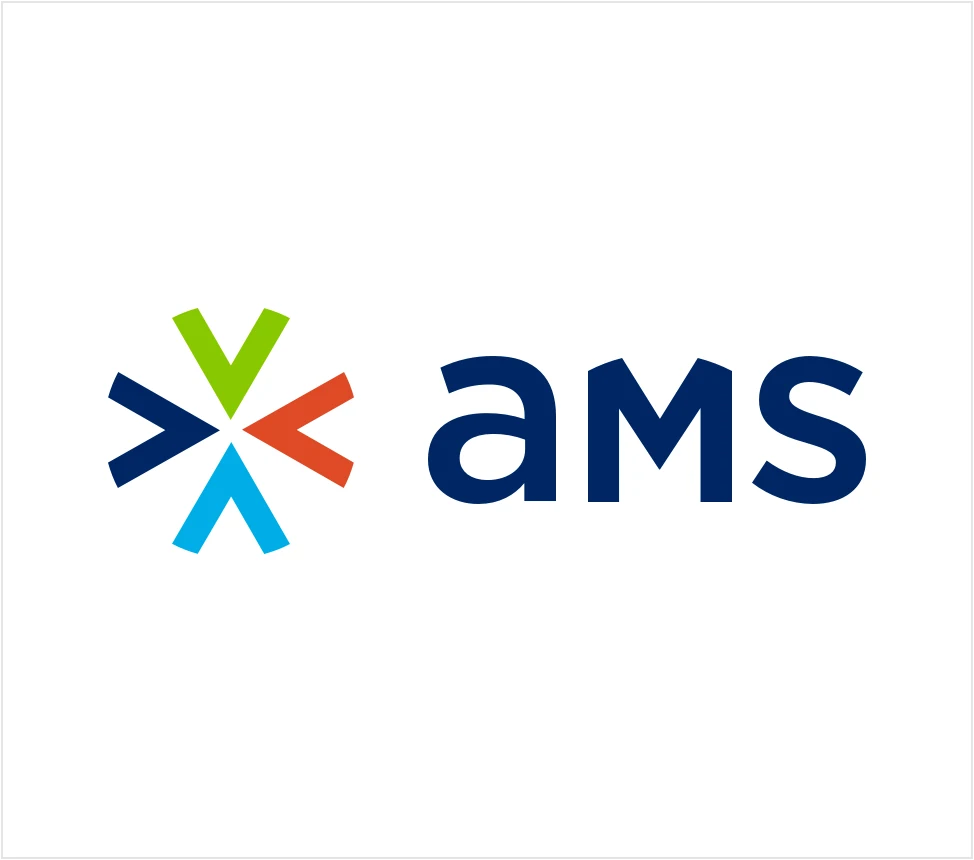
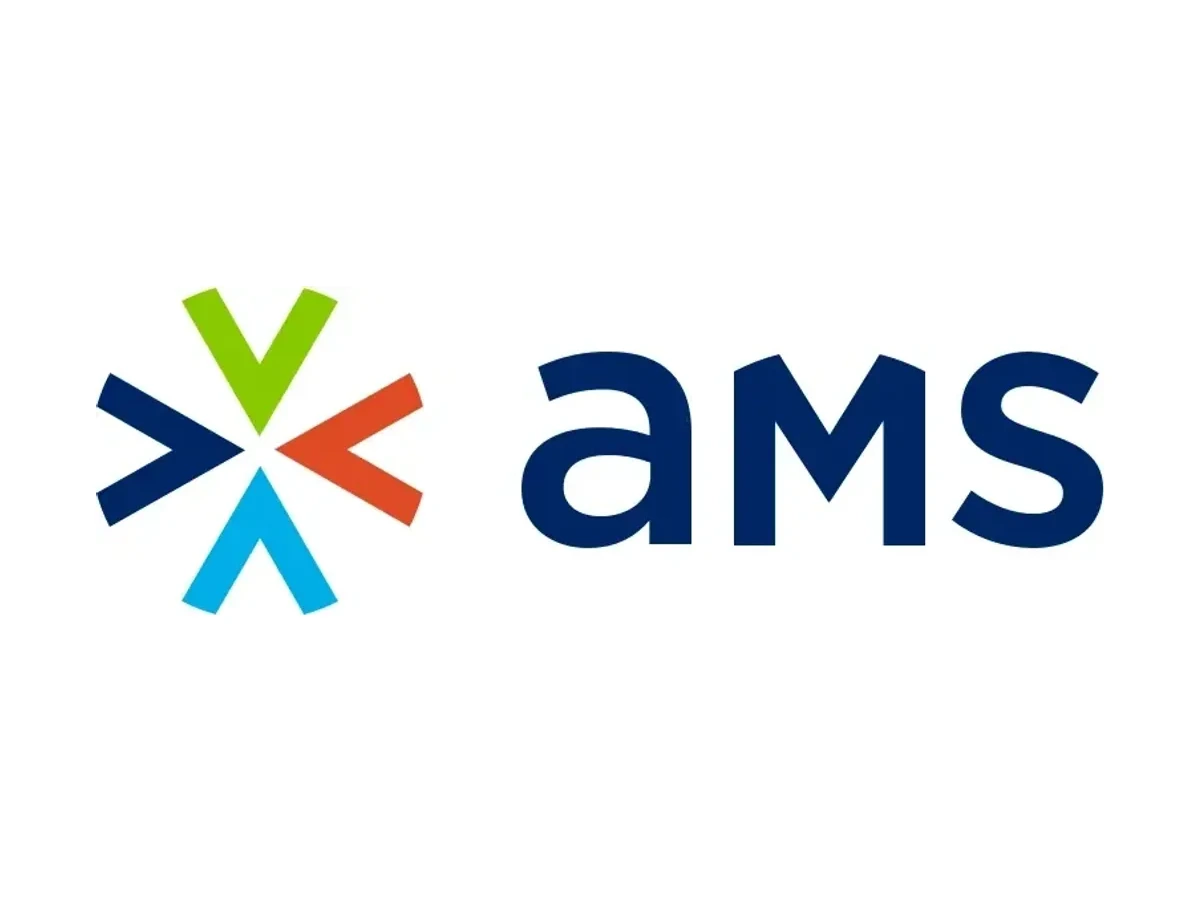
Identities: crop the baked-in borders, normalise mark sizing
The hairline was in the files, not the CSS. Eight of the twelve Squarespace
exports carried a 3px edge - a transparent row, a grey hairline at alpha 64,
then a 228-grey row - which composited over the white cell as a visible
rectangle. Cropped and flattened onto white.

Removing the 24px cell padding helped, but the real reason the marks looked
small was baked-in whitespace: ink occupied anywhere from 20% of the frame
(Nofsinger) to 75% (Namazu), so every logo rendered at a different optical
size. Each mark is now trimmed to its ink and re-centred on a 4:3 canvas
matching the cell, bounded to 84% width and 70% height - wide lockups hit the
width bound, square marks hit the height bound.

Hero and card composites rebuilt from the cleaned files; they had the borders
baked into them too. Declared dimensions resynced to disk.

diff --git a/lib/work.ts b/lib/work.ts
@@ -115,18 +115,18 @@ export const projects: Project[] = [
         gallery: true,
         body: "",
         images: [
-          { src: `${W}/identities/mockingbird.webp`, alt: "The Mockingbird Society — transforming foster care and ending youth homelessness", w: 2004, h: 860 },
-          { src: `${W}/identities/namazu.webp`, alt: "Namazu — fast, casual Japanese cuisine in San Francisco, named for the catfish of Japanese mythology", w: 2004, h: 860 },
-          { src: `${W}/identities/livinglocal.webp`, alt: "Seasons, Harry Race and White’s — sister stores for medical equipment, pharmacy and gifts in Alaska", w: 2004, h: 860 },
+          { src: `${W}/identities/mockingbird.webp`, alt: "The Mockingbird Society — transforming foster care and ending youth homelessness", w: 1200, h: 900 },
+          { src: `${W}/identities/namazu.webp`, alt: "Namazu — fast, casual Japanese cuisine in San Francisco, named for the catfish of Japanese mythology", w: 1200, h: 900 },
+          { src: `${W}/identities/livinglocal.webp`, alt: "Seasons, Harry Race and White’s — sister stores for medical equipment, pharmacy and gifts in Alaska", w: 1200, h: 900 },
           { src: `${W}/concord-international-school/nochetropical.webp`, alt: "Noche Tropical — fundraising dinner and auction identity for Concord International School", w: 2000, h: 1000 },
-          { src: `${W}/identities/perennial.webp`, alt: "Perennial — leadership training for social justice and nonprofit leaders. When you enrich the soil, things flourish", w: 974, h: 860 },
-          { src: `${W}/identities/jjkettman.webp`, alt: "J&J Kettman — hand-crafted furniture made with the tools and techniques of the 17th and 18th centuries", w: 974, h: 860 },
-          { src: `${W}/identities/queen-margherita-pizzeria.webp`, alt: "Queen Margherita Pizzeria — Neapolitan pizza", w: 1039, h: 1039 },
-          { src: `${W}/identities/alaskan-creamery-1.webp`, alt: "Alaskan Creamery — ice cream shop in Alaska", w: 1109, h: 1109 },
-          { src: `${W}/identities/philips.webp`, alt: "Philips — 21 years of multi-vendor service excellence", w: 974, h: 860 },
-          { src: `${W}/identities/redwood.webp`, alt: "Redwood — California real estate", w: 974, h: 860 },
-          { src: `${W}/identities/ams.webp`, alt: "AMS — medical accounts receivable", w: 974, h: 860 },
-          { src: `${W}/identities/nofsinger-group-1.webp`, alt: "Nofsinger Group — consultants", w: 1010, h: 1010 },
+          { src: `${W}/identities/perennial.webp`, alt: "Perennial — leadership training for social justice and nonprofit leaders. When you enrich the soil, things flourish", w: 1200, h: 900 },
+          { src: `${W}/identities/jjkettman.webp`, alt: "J&J Kettman — hand-crafted furniture made with the tools and techniques of the 17th and 18th centuries", w: 1200, h: 900 },
+          { src: `${W}/identities/queen-margherita-pizzeria.webp`, alt: "Queen Margherita Pizzeria — Neapolitan pizza", w: 1200, h: 900 },
+          { src: `${W}/identities/alaskan-creamery-1.webp`, alt: "Alaskan Creamery — ice cream shop in Alaska", w: 1200, h: 900 },
+          { src: `${W}/identities/philips.webp`, alt: "Philips — 21 years of multi-vendor service excellence", w: 1200, h: 900 },
+          { src: `${W}/identities/redwood.webp`, alt: "Redwood — California real estate", w: 1200, h: 900 },
+          { src: `${W}/identities/ams.webp`, alt: "AMS — medical accounts receivable", w: 1200, h: 900 },
+          { src: `${W}/identities/nofsinger-group-1.webp`, alt: "Nofsinger Group — consultants", w: 1200, h: 900 },
         ],
       },
     ],

diff --git a/app/work/[slug]/page.tsx b/app/work/[slug]/page.tsx
@@ -132,14 +132,14 @@ export default async function Project({ params }: { params: Promise<{ slug: stri
                 <div className="mt-10 grid grid-cols-1 gap-x-6 gap-y-8 sm:grid-cols-2 lg:grid-cols-3">
                   {s.images.map((img) => (
                     <figure key={img.src}>
-                      <div className="flex aspect-4/3 items-center justify-center rounded-xs bg-surface p-6">
+                      <div className="flex aspect-4/3 items-center justify-center overflow-hidden rounded-xs bg-surface">
                         <Image
                           src={img.src}
                           alt=""
                           width={img.w}
                           height={img.h}
                           sizes="(max-width: 640px) 100vw, (max-width: 1024px) 50vw, 320px"
-                          className="max-h-full w-auto object-contain"
+                          className="h-full w-full object-contain"
                         />
                       </div>
                       <figcaption className="mt-2.5 text-mid text-ink-3">{img.alt}</figcaption>
